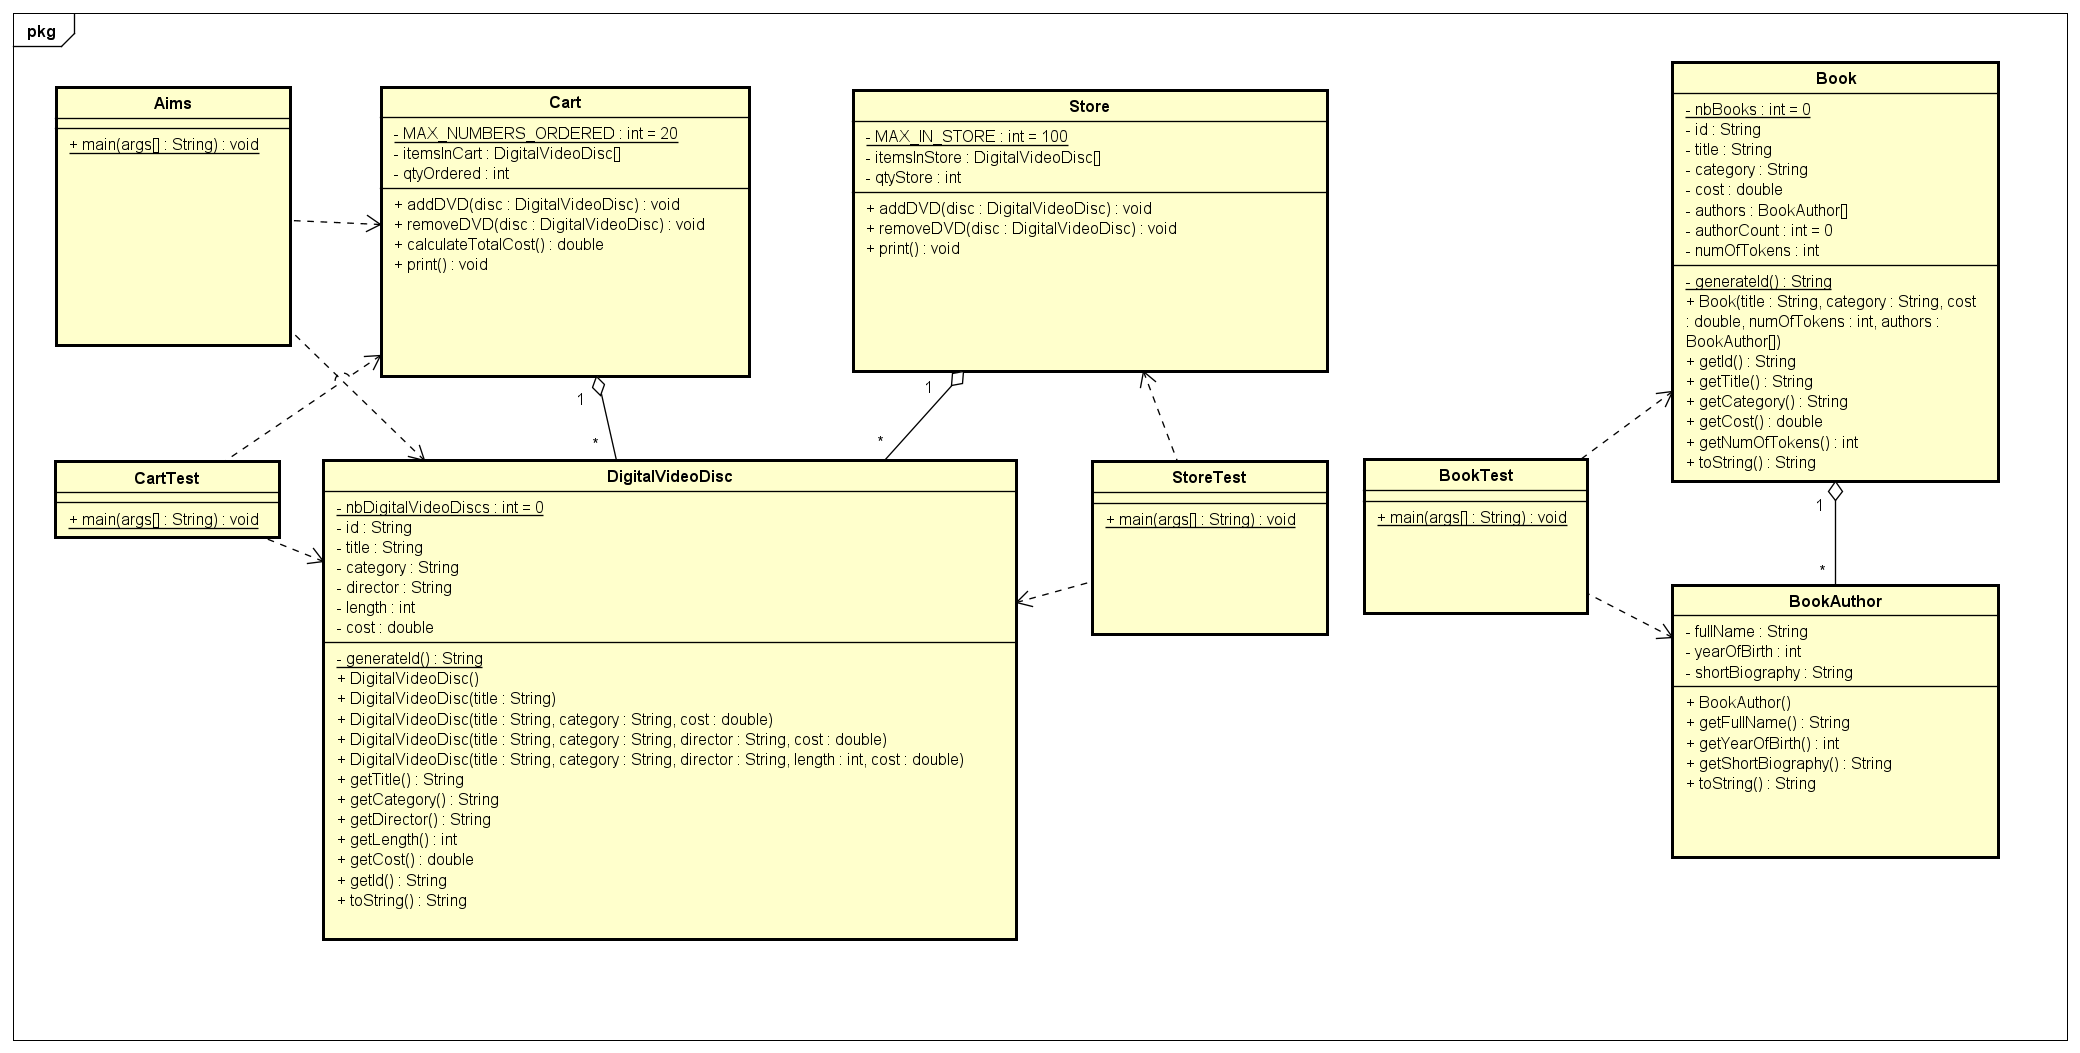
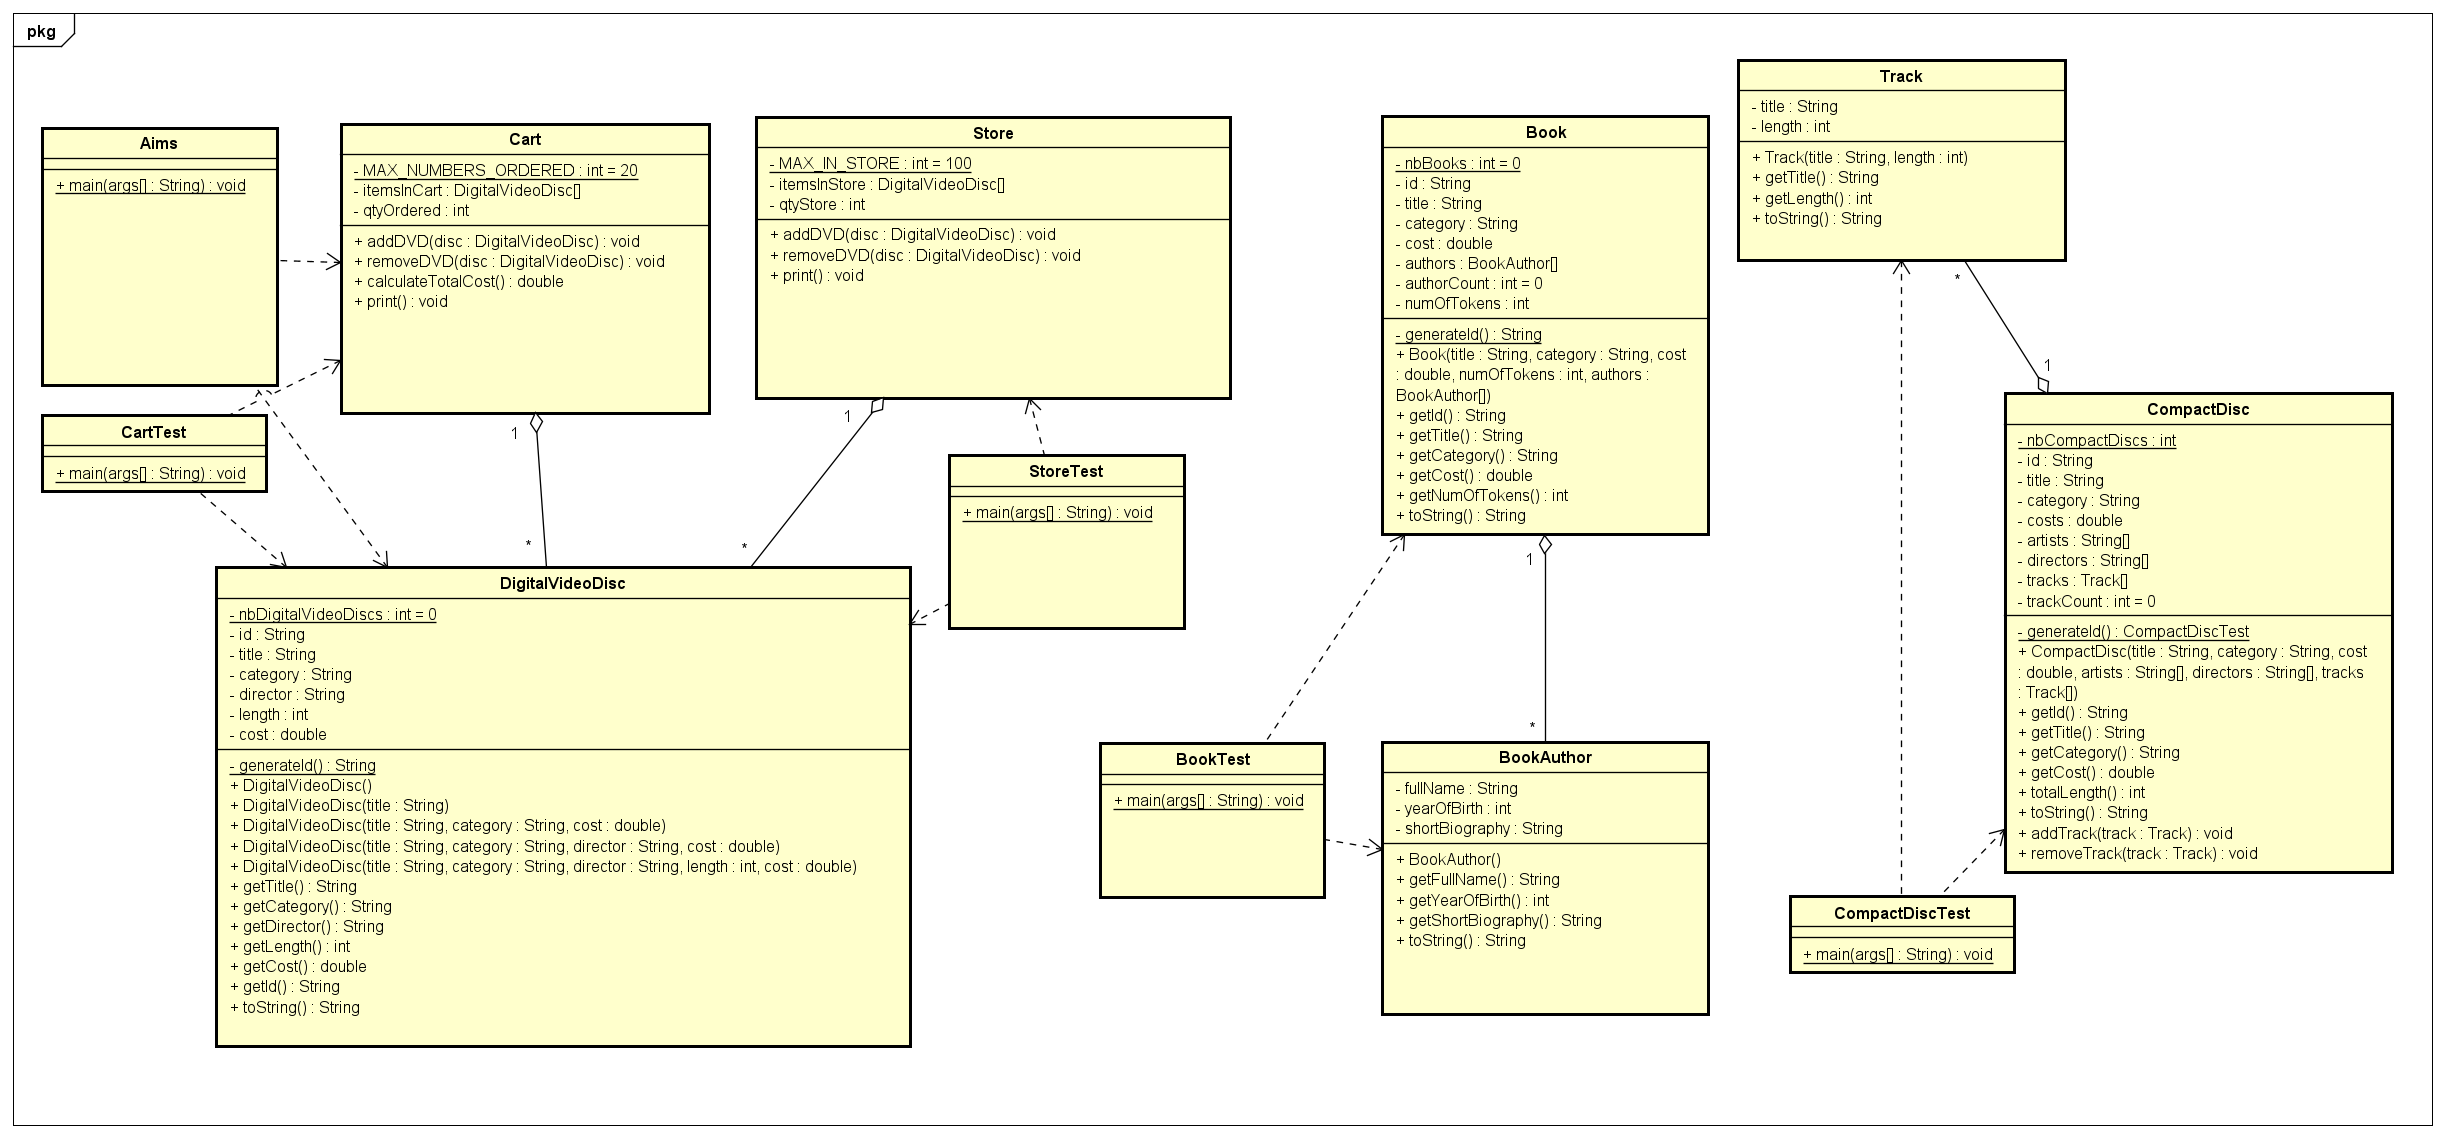
CompactDisc and CompactDiscTest

diff --git a/AimsProject/src/com/hust/kstn/models/CompactDisc.java b/AimsProject/src/com/hust/kstn/models/CompactDisc.java
@@ -1,0 +1,128 @@
+package com.hust.kstn.models;
+
+public class CompactDisc {
+    private static int nbCompactDiscs = 0;
+    private String id;
+    private String title;
+    private String category;
+    private double cost;
+    private String[] artists;
+    private String[] directors;
+    private Track[] tracks = new Track[30];
+    private int trackCount;
+
+    private static String generateId() {
+        nbCompactDiscs++;
+        int a = nbCompactDiscs;
+        char[] id = new char[6];
+        for (int i = 5; i >= 0; i--) {
+            id[i] = (char)('0' + a % 10);
+            a /= 10;
+        }
+        return new String(id);
+    }
+
+    public CompactDisc(String title, String category, double cost, String[] artists, String[] directors, Track[] tracks) {
+        this.id = generateId();
+        this.title = title;
+        this.category = category;
+        this.cost = cost;
+
+        this.artists = new String[artists.length];
+        for (int i = 0; i < artists.length; i++)
+            this.artists[i] = artists[i];
+
+        this.directors = new String[directors.length];    
+        for (int i = 0; i < directors.length; i++)
+            this.directors[i] = directors[i];
+
+        for (int i = 0; i < tracks.length; i++) 
+            if (tracks[i] != null) {
+                this.tracks[i] = tracks[i];
+                trackCount++;
+        }
+    }
+
+    public String getId() {
+        return id;
+    }
+
+    public String getTitle() {
+        return title;
+    }
+
+    public String getCategory() {
+        return category;
+    }
+
+    public double getCost() {
+        return cost;
+    }
+
+    public int totalLength() {
+        int length = 0;
+        for (int i = 0; i < trackCount; i++)
+            length += tracks[i].getLength();
+        return length;
+    }
+
+    @Override
+    public String toString() {
+        if (trackCount == 0) {
+            return "The CD is empty";
+        }
+        String result = "Compact Disc[" + this.id + "]["
+            + this.title + "]["
+            + this.cost + "][" 
+            + this.category + "]["
+            + totalLength() + "]\n";
+
+        result += "Artists: ";
+        for (int i = 0; i < artists.length; i++) {
+            result += artists[i];
+            if (i < artists.length - 1) 
+                result += ", ";
+        }
+        result += "\n";
+
+        result += "Directors: ";
+        for (int i = 0; i < directors.length; i++) {
+            result += directors[i];
+            if (i < directors.length - 1)
+                result += ", ";
+        }
+        result += "\n";
+
+        result += "Tracks: ";
+        for (int i = 0; i < trackCount; i++)     
+            result += this.tracks[i].toString();
+        return result;
+    }
+
+    public void addTrack(Track track) {
+        if (trackCount >= 30) {
+            System.out.println("Cannot add more track");
+            return;
+        }
+        this.tracks[trackCount] = track;
+        trackCount++;
+        System.out.println("The track has been added successfully");
+    }
+
+    public void removeTrack(Track track) {
+        if (trackCount == 0) {
+            System.out.println("The CD is empty");
+            return;
+        }
+        for (int i = 0; i < trackCount; i++) {
+            if (this.tracks[i].equals(track)) {
+                for (int j = i; j < trackCount - 1; j++)
+                    this.tracks[j] = this.tracks[j+1];
+                this.tracks[trackCount-1] = null;
+                trackCount--;
+                System.out.println("The track has been removed successfully");
+                break;
+            }
+        }
+    }
+}

diff --git a/AimsProject/src/com/hust/kstn/test/CompactDiscTest.java b/AimsProject/src/com/hust/kstn/test/CompactDiscTest.java
@@ -1,0 +1,31 @@
+package com.hust.kstn.test;
+
+import com.hust.kstn.models.Track;
+import com.hust.kstn.models.CompactDisc;
+
+public class CompactDiscTest {
+    public static void main(String[] args) {
+        String[] artists = {"Le Van Dat", "Nguyen Van Son"};
+        String[] directors = {"Nguyen Trung Hieu"};
+
+        Track track1 = new Track("Alo", 180);
+        Track track2 = new Track("Ola", 200);
+        Track track3 = new Track("aloalo", 210);
+        Track track4 = new Track("olaalo", 185);
+
+        Track[] tracks = {track1, track2};
+        CompactDisc cd = new CompactDisc("AloAlo", "Pop", 11, artists, directors, tracks);
+        System.out.println(cd);
+
+        cd.addTrack(track3);
+        System.out.println(cd);
+
+        cd.removeTrack(track4);
+        cd.removeTrack(track1);
+        System.out.println(cd);
+
+        cd.removeTrack(track2);
+        cd.removeTrack(track3);
+        System.out.println(cd);
+    }
+}

diff --git a/AimsProject/src/com/hust/kstn/models/Track.java b/AimsProject/src/com/hust/kstn/models/Track.java
@@ -1,0 +1,24 @@
+package com.hust.kstn.models;
+
+public class Track {
+    private String title;
+    private int length;
+
+    public Track(String title, int length) {
+        this.title = title;
+        this.length = length;
+    }
+
+    public String getTitle() {
+        return title;
+    }
+
+    public int getLength() {
+        return length;
+    }
+
+    @Override
+    public String toString() {
+        return this.title + " (" + this.length + ")\n";
+    }
+}
